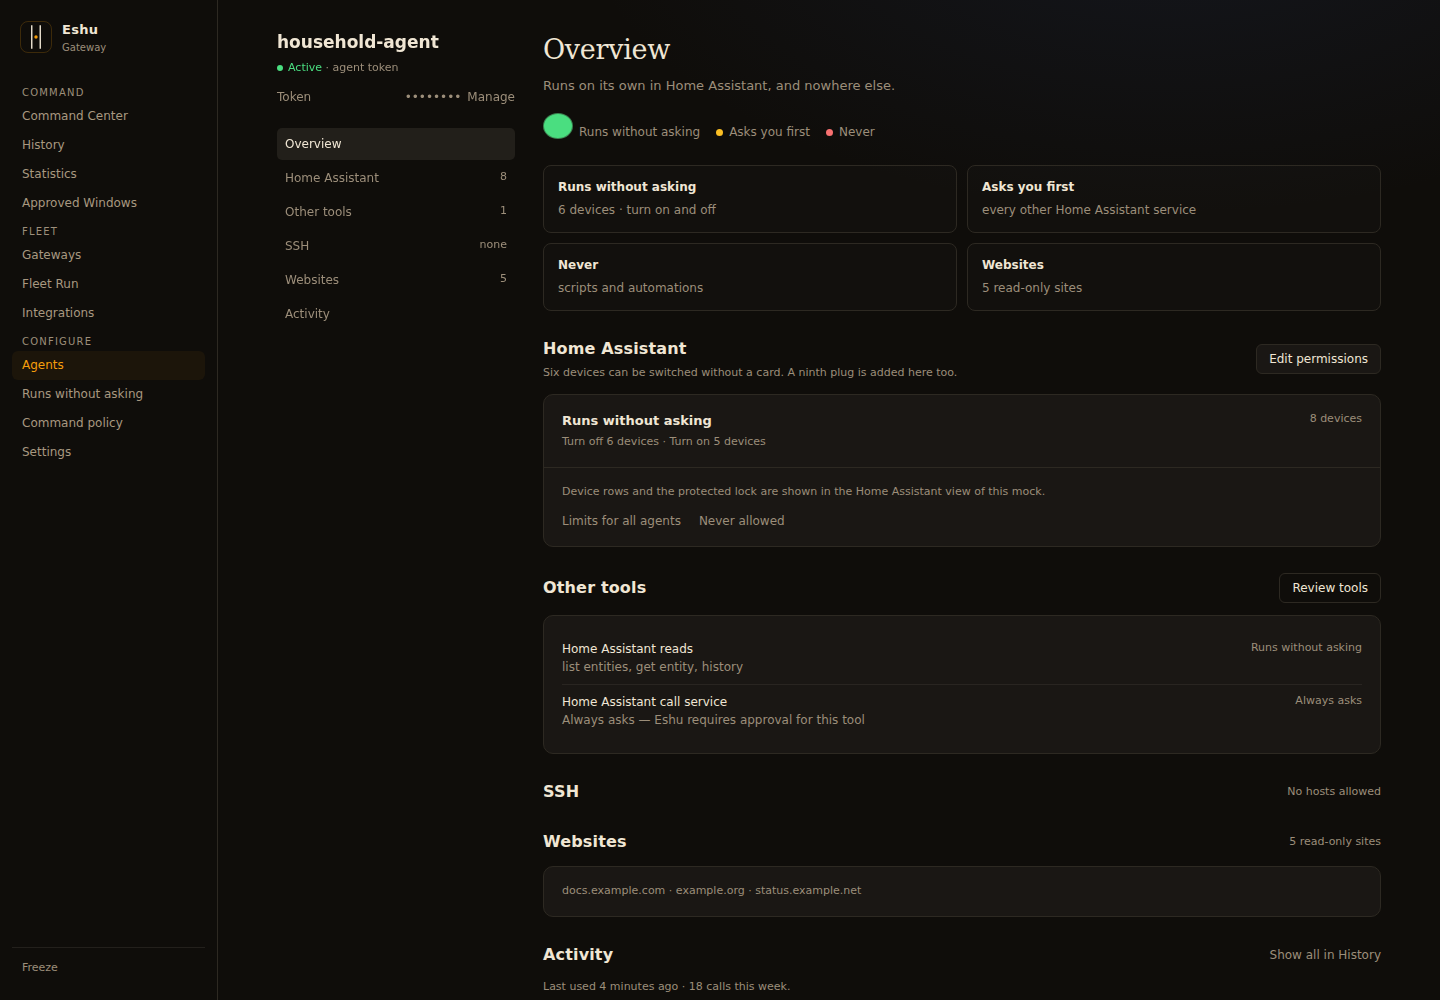
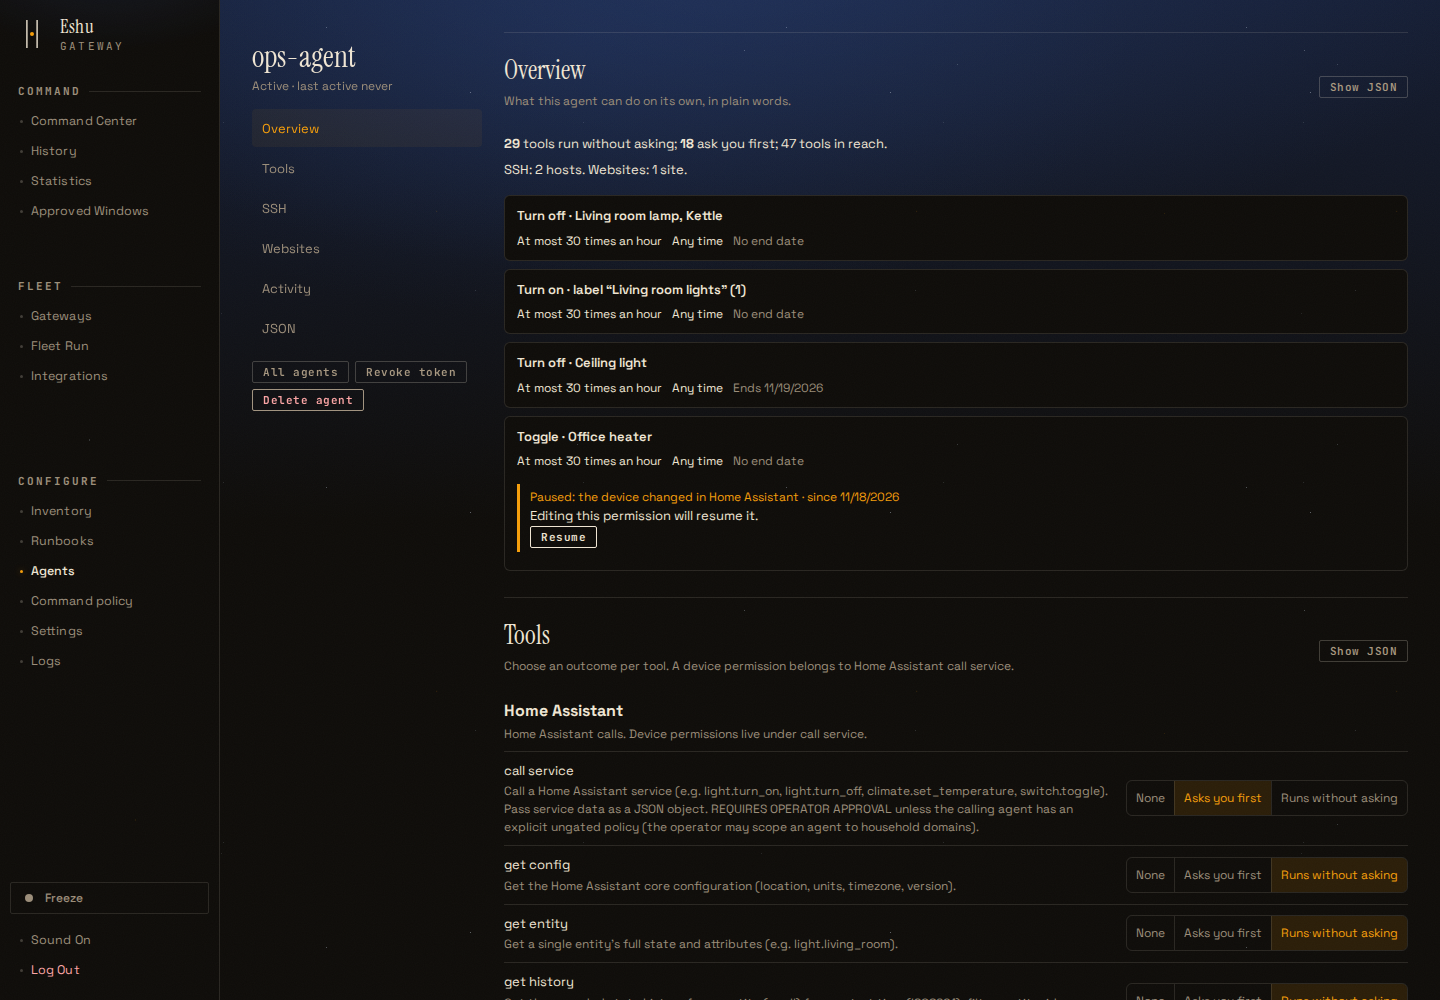
docs(x11): Stage 3 screenshots and implementer notes

diff --git a/docs/features/FEATURE_PLAN.md b/docs/features/FEATURE_PLAN.md
@@ -22457,7 +22457,7 @@ sections above absorb those answers.
 | 27 | X8 | gateway-installer-version | dashboard + gateway | **Code complete** 2026-11-14: on `release/1.4-gw` (BR1 folded; the hash is display-only) | `feat/x8-gateway-installer-version` | X7 | security approved; five buckets sum to the gateway count |
 | 28 | X9 | gated-gateway-files | dashboard + gateway | **Design note** 2026-11-14 (BP2): installer-carried vs authenticated channel files; recommends (b) | `feat/x9-gated-gateway-files` | X7, 1.4 | security sign-off before code |
 | 29 | X10 | approved-windows-modal | dashboard UI | **Merged** 2026-11-17: presets, Once default, typed local HH:MM + duration, live plain-words preview; agent requests use the same preview; not yet deployed | `feat/x10-windows-modal` | — | UI only; no schema or window-meaning change |
-| 31 | X11 | agents-allowances-redesign | dashboard UI + small API | **Stage 2 security fixes** 2026-11-18: CB5–CB7, before/after audit, check-first legacy pin, and the nits; full gate pending | `feat/x11-agents-allowances` | F27, X4, fix/f27-ha-by-kind | security re-reads CB5–CB7 before merge; Stage 3 applies section C |
+| 31 | X11 | agents-allowances-redesign | dashboard UI + small API | **Stage 3 in review** 2026-11-18: the Agents and Rules screens replace the Allowances page; section C fixes; one ceiling rule; protection while HA is down; S5 preview binds tools/SSH/websites. Stage 2 approved to merge (`852270d`). | `feat/x11-ui` | F27, X4, fix/f27-ha-by-kind | Security reads Part 1; operator reviews Part 2; not deployed |
 | — | CI fix | ci-environment | gateway + tests | Merged (`f2746ef`); CI pinned to ubuntu-24.04 (`6d58006`) | `fix/ci-environment` | F5 | |
 | — | Buffering | stream-unbuffered | gateway | Merged (`d8d70c2`); S1 tee fix done in Gateway hardening | `fix/stream-unbuffered` | F5 | |
 | — | Gateway hardening | gateway-hardening | gateway | **Merged** 2026-11-12 (AF3 + S1 tee capture; security `c15664e`; AX1/AX2 residuals; BA1 for the next F5/F19 change) | `fix/gateway-hardening` | F19, Buffering | |
@@ -22713,3 +22713,34 @@ what was applied" literal for the whole document.
 * Retire the first once the fleet is past BJ2, for example in the X9
   legacy retirement.
 * Give the second a body or header form, and move E2E-1's C11 onto it.
+
+
+**Stage 3 (2026-11-18).** Code is on `feat/x11-ui`, branched from
+`852270d`. The real dashboard shell now has two Agents tabs; the old
+Allowances page and its JavaScript are gone, while the API endpoints stay.
+
+* **Part 1 — Security follow-ups.**
+  * `ceiling_allows(..., conn=None)` is now the one ceiling check;
+    `_ceiling_allows_conn` is a thin compatibility wrapper. The destructive
+    word rule lives in `_ceiling_denied`, once, and both call styles are
+    tested.
+  * Protection while HA is unreachable is accepted with an empty registry
+    id, suspends by entity id in the same transaction, and backfills the
+    registry id on the next successful refresh with
+    `allowance_protected_registry_filled`. A rename after the backfill is
+    still refused by the stored registry id.
+  * The S5 `preview_hash` now also hashes the tools, SSH and websites
+    sections as they will be written. A document whose SSH hosts differ
+    from the previewed one is a 409.
+* **Part 2 — the UI.** `dashboard/static/x11.js` and `x11.css` render the
+  two tabs, the card grid, the six agent sections, the area-grouped device
+  grid, the Check preview and the JSON editor. `tests/ui/x11_check.cjs`
+  drives the real page for the tabs, card counts, grid, hash/ack bodies,
+  409 reload wording, expiry removal, JSON server errors, Resume and the
+  390 px layout. `scripts/x11_ui_shots.cjs` renders the seven states at
+  1440 and 390 into `docs/screenshots/x11/` against
+  `tests/ui/seed_ui.py` (synthetic `192.0.2.x` / `*.example.test` data).
+  The old mock screenshots were removed.
+* **Still open for review.** The operator review covers the look and the
+  six Stage 3 fixes; Security reads the three server items. Nothing is
+  merged into master or deployed.
